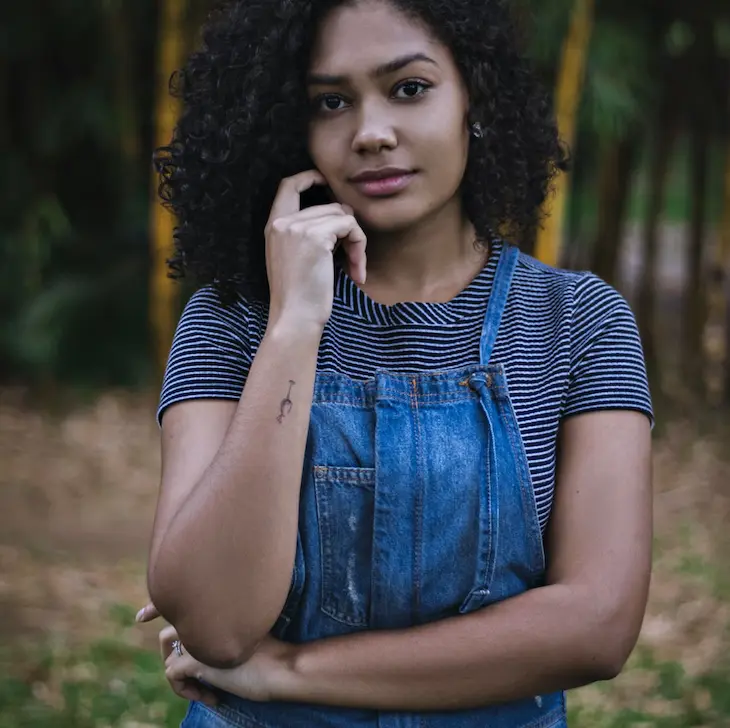
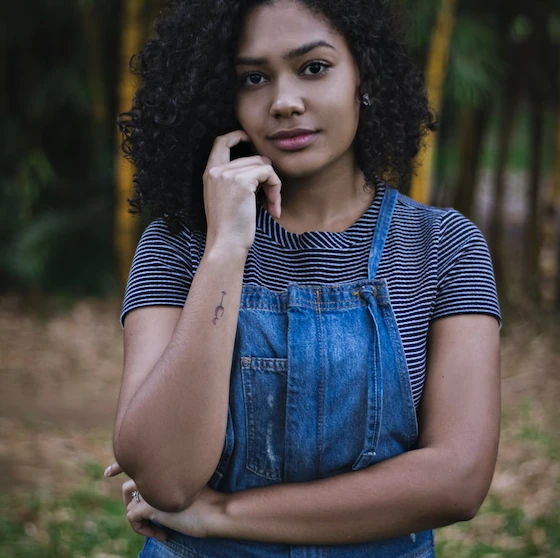
up

diff --git a/index.html b/index.html
@@ -129,8 +129,8 @@
                              ./assets/images/nina.webp 600w" 
                      sizes="(max-width: 300px) 300px, 600px" 
                      alt="Photo de Nina Carducci" 
-                     width="540" 
-                     height="540">
+                     width="560" 
+                     height="560">
 	</div>
 	<div id="about-me">
 		<h2 class="about-me__title">A propos de moi</h2>
